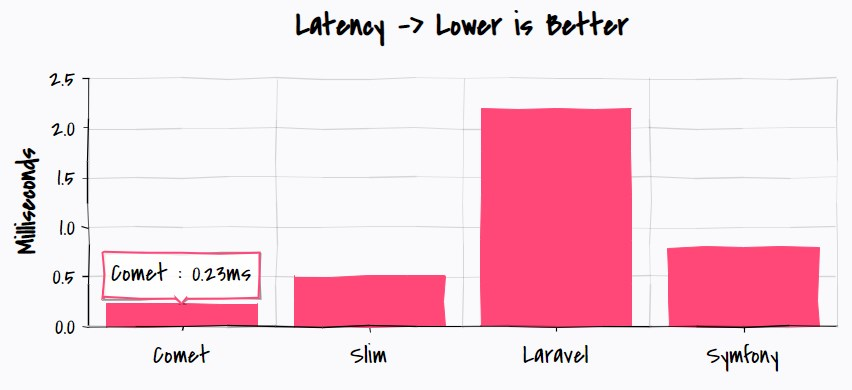
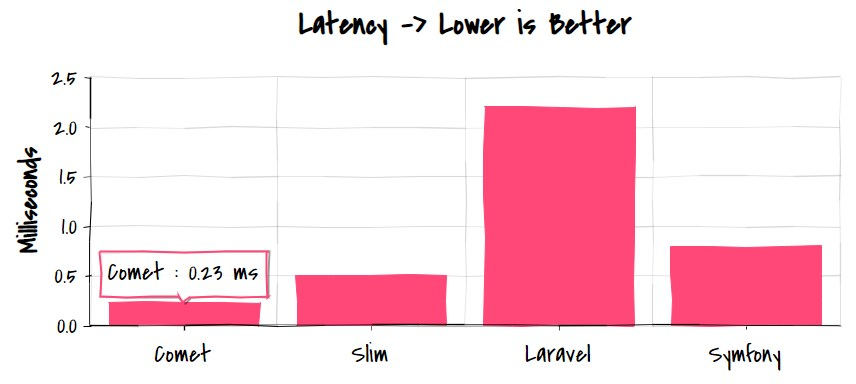
Better charts

diff --git a/README.md b/README.md
@@ -21,17 +21,21 @@ Comet is a hybrid app server that allows you natively use all methods of Slim: h
 PHP is often criticized for its low throughput and high latency. But that is not necessarily true for modern frameworks. Let's see how Comet outperforms others.
 
 <p align="center">
-  <img width="800" src="plaintext-performance.jpg">
+  <img width="600" src="performance-1.jpg">
+</p>
+
+<p align="center">
+  <img width="600" src="performance-1000.jpg">
 </p>
 
 As you can see, the right architecture provides it with tenfold advantage over Symfony and other popular frameworks. 
 
 <p align="center">
-  <img src="latency-1.jpg">
+  <img width="600" src="latency-1.jpg">
 </p>
 
 <p align="center">
-  <img src="latency-1000.jpg">
+  <img width="600" src="latency-1000.jpg">
 </p>
 
 Comet provides sub-millisecond latency for typical scenarios. Even under hard pressure of thousands concurrent connections it can compete with frameworks of compiled platforms like Go and Java.
